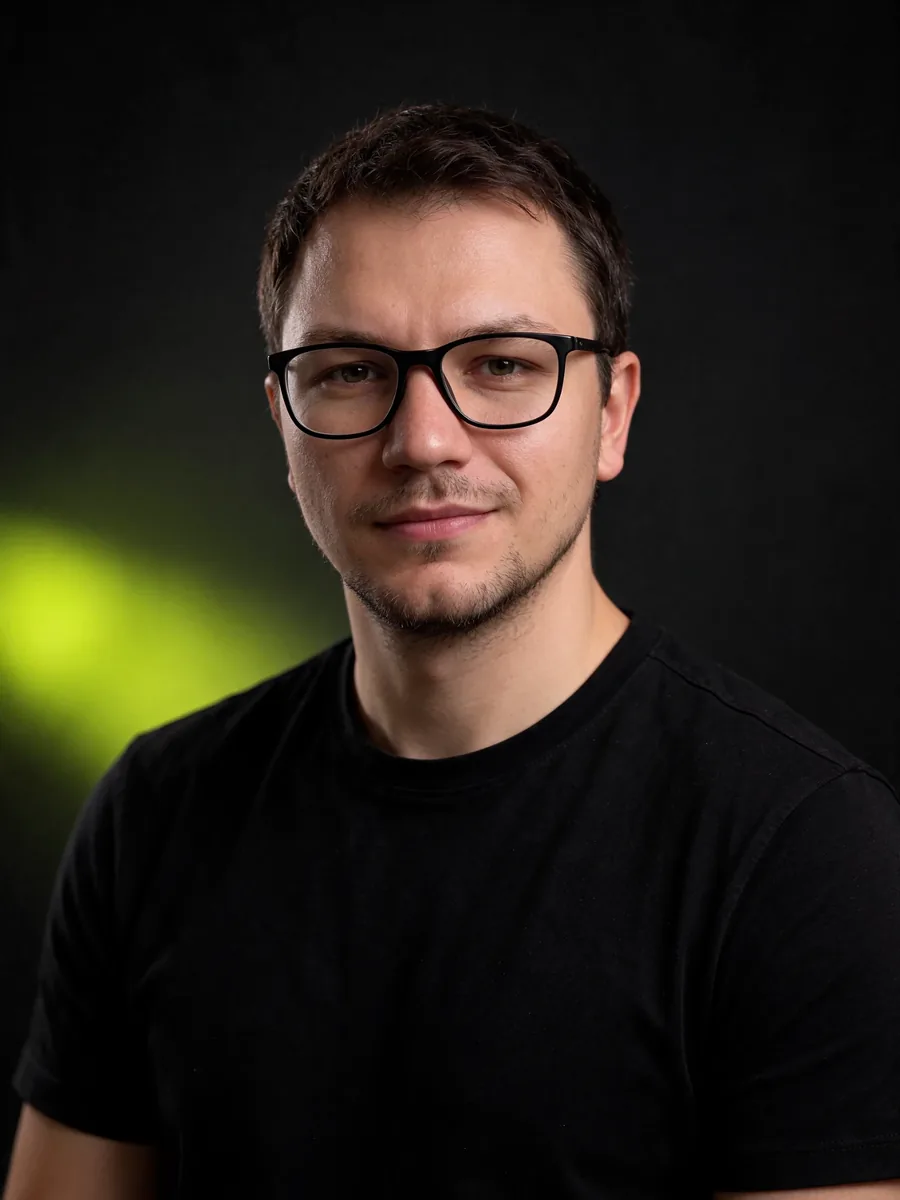
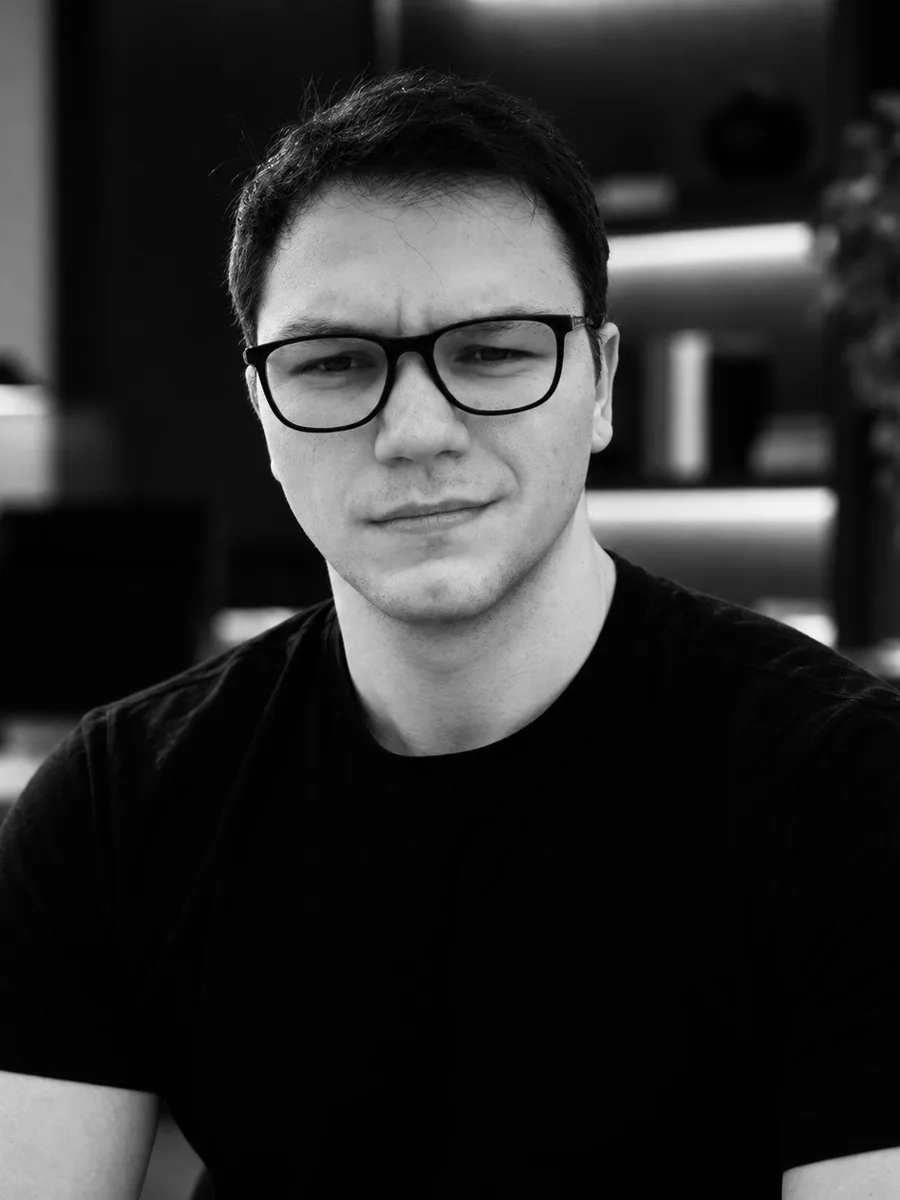
Fundadores, diferencial de atendimento e depoimentos maiores
- /sobre: três fundadores (Diego Viana, Liandra Silva, Elizandro Uebel), fotos
  em P&B padronizadas 3:4, bios novas abaixo da foto; schema Person com
  descrição e sameAs só quando houver Instagram
- Retratos sempre em P&B (hover só aproxima)
- Home: bloco "Atendimento humanizado e rápido" como diferencial
- Depoimentos em cards grandes com capa vertical e selo "Assistir relato"

Claude-Session: https://claude.ai/code/session_017hVXZuQVk5CDn8GGpqVGSH

diff --git a/src/app/sobre/page.tsx b/src/app/sobre/page.tsx
@@ -63,39 +63,42 @@ export default function AboutPage() {
       <Section tone="paper2" labelledBy="fundadores">
         <Container>
           <SectionHeader id="fundadores" index="02" eyebrow="Fundadores" title="Quem está à frente da DX." />
-          <ul className="mt-14 grid gap-6 sm:grid-cols-2 lg:max-w-5xl lg:gap-8">
+          <ul className="mt-14 grid gap-10 sm:grid-cols-2 lg:grid-cols-3 lg:gap-8">
             {site.founders.map((f, i) => (
-              <li key={f.id} className="reveal" style={{ ["--reveal-delay" as string]: `${i * 100}ms` }}>
+              <li key={f.id} className="reveal flex flex-col" style={{ ["--reveal-delay" as string]: `${i * 100}ms` }}>
                 <figure className="portrait group relative isolate overflow-hidden rounded-lg bg-bg-fill-inverse">
                   <Image
                     src={f.photo}
                     alt={`${f.name}, ${f.role.toLowerCase()} da Agência Digital Xpert`}
                     width={900}
                     height={1200}
-                    sizes="(min-width: 1024px) 32rem, (min-width: 640px) 45vw, 100vw"
+                    sizes="(min-width: 1024px) 26rem, (min-width: 640px) 45vw, 100vw"
                     className="aspect-[3/4] h-auto w-full object-cover"
                   />
                   {/* degradê para o texto sobre a foto passar no contraste */}
-                  <div aria-hidden className="absolute inset-x-0 bottom-0 h-3/5 bg-gradient-to-t from-black/90 via-black/50 to-transparent" />
-                  <figcaption className="surface-dark absolute inset-x-0 bottom-0 !bg-transparent p-6 sm:p-8">
-                    <span aria-hidden className="portrait-bar mb-4 block h-0.5 w-12 rounded-full bg-bg-fill-brand" />
-                    <p className="font-display text-[clamp(1.5rem,1.2rem+1vw,2rem)] font-semibold leading-tight tracking-[-0.02em]">{f.name}</p>
-                    <p className="mt-1 text-sm leading-5 text-text-secondary">{f.role} · {f.bio}</p>
+                  <div aria-hidden className="absolute inset-x-0 bottom-0 h-2/5 bg-gradient-to-t from-black/90 via-black/45 to-transparent" />
+                  <figcaption className="surface-dark absolute inset-x-0 bottom-0 !bg-transparent p-6">
+                    <span aria-hidden className="portrait-bar mb-3 block h-0.5 w-12 rounded-full bg-bg-fill-brand" />
+                    <p className="font-display text-[clamp(1.5rem,1.2rem+1vw,1.875rem)] font-medium leading-tight tracking-[-0.02em]">{f.name}</p>
+                    <p className="mt-1 text-sm leading-5 text-text-secondary">{f.role} da Digital Xpert</p>
                   </figcaption>
-                  <a
-                    href={f.instagram}
-                    target="_blank"
-                    rel="noopener noreferrer"
-                    aria-label={`Instagram de ${f.name} (abre em nova aba)`}
-                    className="pressable material-bar absolute right-4 top-4 grid size-11 place-items-center rounded-full text-white"
-                  >
-                    <svg aria-hidden viewBox="0 0 24 24" width="20" height="20" fill="none" stroke="currentColor" strokeWidth="1.7">
-                      <rect x="3" y="3" width="18" height="18" rx="5" />
-                      <circle cx="12" cy="12" r="4" />
-                      <circle cx="17.5" cy="6.5" r="0.8" fill="currentColor" stroke="none" />
-                    </svg>
-                  </a>
+                  {f.instagram ? (
+                    <a
+                      href={f.instagram}
+                      target="_blank"
+                      rel="noopener noreferrer"
+                      aria-label={`Instagram de ${f.name} (abre em nova aba)`}
+                      className="pressable material-bar absolute right-4 top-4 grid size-11 place-items-center rounded-full text-white"
+                    >
+                      <svg aria-hidden viewBox="0 0 24 24" width="20" height="20" fill="none" stroke="currentColor" strokeWidth="1.7">
+                        <rect x="3" y="3" width="18" height="18" rx="5" />
+                        <circle cx="12" cy="12" r="4" />
+                        <circle cx="17.5" cy="6.5" r="0.8" fill="currentColor" stroke="none" />
+                      </svg>
+                    </a>
+                  ) : null}
                 </figure>
+                <p className="mt-5 text-[0.9375rem] leading-6 text-text-secondary">{f.bio}</p>
               </li>
             ))}
           </ul>

diff --git a/src/app/page.tsx b/src/app/page.tsx
@@ -46,6 +46,41 @@ const stepCopy: Record<string, string> = {
   otimizacao: "Ajustes contínuos em campanhas, mensagens e páginas para escalar o que dá resultado.",
 };
 
+/** Diferencial da DX: atendimento próximo, humano e ágil (sem prometer prazos em minutos). */
+const diferenciais = [
+  {
+    title: "Gente de verdade",
+    text: "Você fala com pessoas da equipe, que conhecem a sua empresa pelo nome, não com robô ou central de chamados.",
+    icon: (
+      <>
+        <circle cx="12" cy="8" r="3.5" />
+        <path d="M5 20c.8-3.6 3.6-5.5 7-5.5s6.2 1.9 7 5.5" />
+      </>
+    ),
+  },
+  {
+    title: "Resposta rápida",
+    text: "Dúvidas, ajustes e novas ideias não ficam parados em fila. A gente responde e age com agilidade.",
+    icon: <path d="M13 3 5 13.5h6L10 21l8-10.5h-6L13 3Z" />,
+  },
+  {
+    title: "Conversa clara",
+    text: "Números e próximos passos explicados em linguagem simples, sem jargão e sem relatório que ninguém entende.",
+    icon: <path d="M4 5.5A1.5 1.5 0 0 1 5.5 4h13A1.5 1.5 0 0 1 20 5.5v9a1.5 1.5 0 0 1-1.5 1.5H10l-4.5 4v-4h0A1.5 1.5 0 0 1 4 14.5v-9Z" />,
+  },
+  {
+    title: "Perto da operação",
+    text: "Acompanhamos o que acontece no seu atendimento para ajustar campanhas com base no que vira venda.",
+    icon: (
+      <>
+        <path d="M4 19h16" />
+        <path d="M7 15l3.5-4 3 2.5L18 8" />
+        <path d="M14.5 8H18v3.5" />
+      </>
+    ),
+  },
+];
+
 const faqs: FAQ[] = [
   {
     q: "O que é tráfego pago?",
@@ -278,6 +313,47 @@ export default function HomePage() {
               {CTA_SECONDARY.label}
               <ArrowIcon />
             </TrackedLink>
+          </div>
+        </Container>
+      </Section>
+
+      {/* DIFERENCIAL: atendimento humanizado e rápido ---------------- */}
+      <Section tone="dark" labelledBy="diferencial-title" className="relative isolate overflow-hidden bg-[#000]">
+        <div aria-hidden className="hero-art">
+          <div className="absolute left-[-10%] top-1/2 size-[44rem] -translate-y-1/2 rounded-full bg-[radial-gradient(circle,rgb(255_255_255/0.09),transparent_65%)]" />
+        </div>
+        <Container>
+          <div className="grid gap-12 lg:grid-cols-[minmax(0,5fr)_minmax(0,7fr)] lg:items-center lg:gap-20">
+            <div className="reveal">
+              <Eyebrow>Nosso diferencial</Eyebrow>
+              <h2 id="diferencial-title" className="text-h1">
+                <span className="text-chrome text-chrome-lines">Atendimento humanizado e rápido.</span>
+              </h2>
+              <p className="text-lead mt-6 max-w-md text-text-secondary">
+                Aqui você não abre chamado nem fala com robô. Fala com pessoas que conhecem o seu negócio e respondem com agilidade.
+              </p>
+              <TrackedLink href={CTA_PRIMARY.href} trackLabel={CTA_PRIMARY.label} trackLocation="home_diferencial" className={btn("primary", "mt-9")}>
+                {CTA_PRIMARY.label}
+                <ArrowIcon className="transition-transform duration-200 group-hover:translate-x-0.5" />
+              </TrackedLink>
+            </div>
+            <ul className="grid gap-4 sm:grid-cols-2">
+              {diferenciais.map((d, i) => (
+                <li
+                  key={d.title}
+                  className="reveal rounded-[28px] border border-border-tertiary bg-[rgb(255_255_255/0.03)] p-6 backdrop-blur-sm"
+                  style={{ ["--reveal-delay" as string]: `${i * 70}ms` }}
+                >
+                  <span aria-hidden className="grid size-12 place-items-center rounded-full border border-border-tertiary bg-[var(--grey-900)] text-text-primary">
+                    <svg viewBox="0 0 24 24" width="22" height="22" fill="none" stroke="currentColor" strokeWidth="1.6" strokeLinecap="round" strokeLinejoin="round">
+                      {d.icon}
+                    </svg>
+                  </span>
+                  <h3 className="text-h3 mt-5">{d.title}</h3>
+                  <p className="mt-2 text-[0.9375rem] leading-6 text-text-secondary">{d.text}</p>
+                </li>
+              ))}
+            </ul>
           </div>
         </Container>
       </Section>

diff --git a/src/components/TestimonialCards.tsx b/src/components/TestimonialCards.tsx
@@ -2,31 +2,40 @@ import Image from "next/image";
 import { testimonials } from "@/content/testimonials";
 import { ArrowIcon } from "./ui";
 
+/** Depoimentos em destaque: capa grande (vídeo no Instagram), cliente e síntese do relato. */
 export function TestimonialCards() {
   return (
-    <ul className="grid gap-4 md:grid-cols-3">
-      {testimonials.map((item) => (
-        <li key={item.href}>
+    <ul className="grid gap-5 sm:grid-cols-2 lg:grid-cols-3 lg:gap-6">
+      {testimonials.map((item, i) => (
+        <li key={item.href} className="reveal" style={{ ["--reveal-delay" as string]: `${i * 80}ms` }}>
           <a
             href={item.href}
             target="_blank"
             rel="noopener noreferrer"
-            className="group grid h-full grid-cols-[minmax(4.5rem,30%)_1fr] overflow-hidden rounded-md border border-border-tertiary bg-bg-surface transition-colors hover:border-border-secondary focus-visible:outline-offset-4 md:max-xl:flex md:max-xl:flex-col"
+            className="pressable group flex h-full flex-col overflow-hidden rounded-[28px] border border-border-tertiary bg-bg-surface transition-colors hover:border-border-secondary focus-visible:outline-offset-4"
           >
-            <div className="relative min-h-40 overflow-hidden bg-bg-surface-recessed md:max-xl:aspect-square md:max-xl:min-h-0">
+            <div className="relative aspect-[4/5] overflow-hidden bg-bg-surface-recessed">
               <Image
                 src={item.image}
                 alt=""
                 fill
-                sizes="(min-width: 1280px) 116px, 32vw"
+                sizes="(min-width: 1024px) 26rem, (min-width: 640px) 45vw, 100vw"
                 style={{ objectPosition: item.imagePosition }}
-                className="object-cover motion-safe:transition-transform motion-safe:duration-300 motion-safe:group-hover:scale-105"
+                className="object-cover motion-safe:transition-transform motion-safe:duration-700 motion-safe:ease-[var(--ease-spring)] motion-safe:group-hover:scale-105"
               />
+              <div aria-hidden className="absolute inset-x-0 bottom-0 h-1/3 bg-gradient-to-t from-black/60 to-transparent" />
+              {/* indica que é vídeo */}
+              <span aria-hidden className="material-bar absolute bottom-4 left-4 inline-flex items-center gap-2 rounded-full py-1.5 pl-2 pr-4 text-sm font-medium leading-5 text-white">
+                <span className="grid size-7 place-items-center rounded-full bg-white text-black">
+                  <svg viewBox="0 0 20 20" width="12" height="12" fill="currentColor"><path d="M6 4.5v11l9-5.5-9-5.5Z" /></svg>
+                </span>
+                Assistir relato
+              </span>
             </div>
-            <div className="flex min-w-0 flex-1 flex-col items-start p-4 sm:p-5">
+            <div className="flex flex-1 flex-col items-start p-6">
               <h3 className="text-h3">{item.client}</h3>
-              <p className="mb-5 mt-2 text-sm leading-5 text-text-secondary">{item.summary}</p>
-              <span className="mt-auto inline-flex items-center gap-1.5 text-sm font-medium leading-5 group-hover:underline">
+              <p className="mb-6 mt-3 text-base leading-6 text-text-secondary">{item.summary}</p>
+              <span className="mt-auto inline-flex items-center gap-1.5 text-[0.9375rem] font-medium leading-6 group-hover:underline">
                 Ver no Instagram <ArrowIcon className="size-4 shrink-0 -rotate-45" />
                 <span className="sr-only">(abre em nova aba)</span>
               </span>

diff --git a/src/config/site.ts b/src/config/site.ts
@@ -38,20 +38,29 @@ export const site = {
   /** Fundadores (fotos em /public/equipe, 3:4). */
   founders: [
     {
-      id: "elizandro-uebel",
-      name: "Elizandro Uebel",
-      role: "Sócio-fundador",
-      bio: "Empreendedor à frente de empresas em diferentes mercados.",
-      photo: "/equipe/elizandro-uebel.webp",
-      instagram: "https://www.instagram.com/elizandrouebel/",
-    },
-    {
       id: "diego-viana",
       name: "Diego Viana",
-      role: "Sócio-fundador",
-      bio: "Empresário e fundador da Agência Digital Xpert.",
+      role: "Cofundador",
+      bio: "Empresário e estrategista digital, atua no marketing desde 2016. Une experiência em marketing, funis de vendas e vendas para ajudar empresas a atrair clientes, melhorar seus resultados e crescer.",
       photo: "/equipe/diego-viana.webp",
-      instagram: "https://www.instagram.com/diegouviana/",
+      instagram: "https://www.instagram.com/diegouviana/" as string | null,
+    },
+    {
+      id: "liandra-silva",
+      name: "Liandra Silva",
+      role: "Cofundadora",
+      bio: "Empresária e especialista em posicionamento digital, atua desde 2019 e já impactou mais de 20 mil alunos. Desenvolve estratégias de conteúdo e autoridade para fortalecer marcas e gerar oportunidades de venda.",
+      photo: "/equipe/liandra-silva.webp",
+      /** PENDÊNCIA: perfil do Instagram (o botão aparece quando houver). */
+      instagram: null as string | null,
+    },
+    {
+      id: "elizandro-uebel",
+      name: "Elizandro Uebel",
+      role: "Cofundador",
+      bio: "Empresário com experiência nos setores automotivo, de alimentação e de estética, entre outros, e mais de 16 CNPJs ativos. Traz sua vivência em gestão, operação e vendas para conectar as estratégias de marketing aos desafios reais de quem empreende.",
+      photo: "/equipe/elizandro-uebel.webp",
+      instagram: "https://www.instagram.com/elizandrouebel/" as string | null,
     },
   ],
   /** PENDÊNCIA: razão social e CNPJ para as políticas. */

diff --git a/src/app/globals.css b/src/app/globals.css
@@ -421,15 +421,16 @@ html.js .reveal.is-visible { opacity: 1; transform: none; }
 }
 @media (hover: hover) { .row-sweep:hover::before { transform: scaleX(1); } }
 
-/* Retrato P&B → cor. Com mouse: no hover. Sem mouse (iOS): ao passar pelo centro da tela. */
-.portrait img { filter: grayscale(1) contrast(1.06); transform: scale(1.0); transition: filter 900ms var(--ease-out-soft), transform 900ms var(--ease-spring); }
+/* Retratos: com mouse, aproximam no hover; sem mouse (iOS), ao passar pelo centro da tela. */
+/* Retratos sempre em P&B (identidade monocromática); hover/centro da tela só aproxima. */
+.portrait img { filter: grayscale(1); transform: scale(1.0); transition: transform 900ms var(--ease-spring); }
 .portrait .portrait-bar { transform: scaleX(0); transform-origin: 0 50%; transition: transform 600ms var(--ease-spring) 120ms; }
 @media (hover: hover) {
-  .portrait:hover img, .portrait:focus-within img { filter: grayscale(0) contrast(1); transform: scale(1.04); }
+  .portrait:hover img, .portrait:focus-within img { transform: scale(1.04); }
   .portrait:hover .portrait-bar, .portrait:focus-within .portrait-bar { transform: scaleX(1); }
 }
 @media (hover: none) {
-  .portrait.in-view img { filter: grayscale(0) contrast(1); transform: scale(1.03); }
+  .portrait.in-view img { transform: scale(1.03); }
   .portrait.in-view .portrait-bar { transform: scaleX(1); }
 }
 

diff --git a/src/lib/schema.ts b/src/lib/schema.ts
@@ -59,10 +59,11 @@ export function founderNodes() {
     "@type": "Person",
     "@id": ids.person(f.id),
     name: f.name,
-    jobTitle: f.role,
+    jobTitle: `${f.role} da ${site.name}`,
+    description: f.bio,
     image: absoluteUrl(f.photo),
     worksFor: { "@id": ids.org },
-    sameAs: [f.instagram],
+    ...(f.instagram ? { sameAs: [f.instagram] } : {}),
   }));
 }
 
